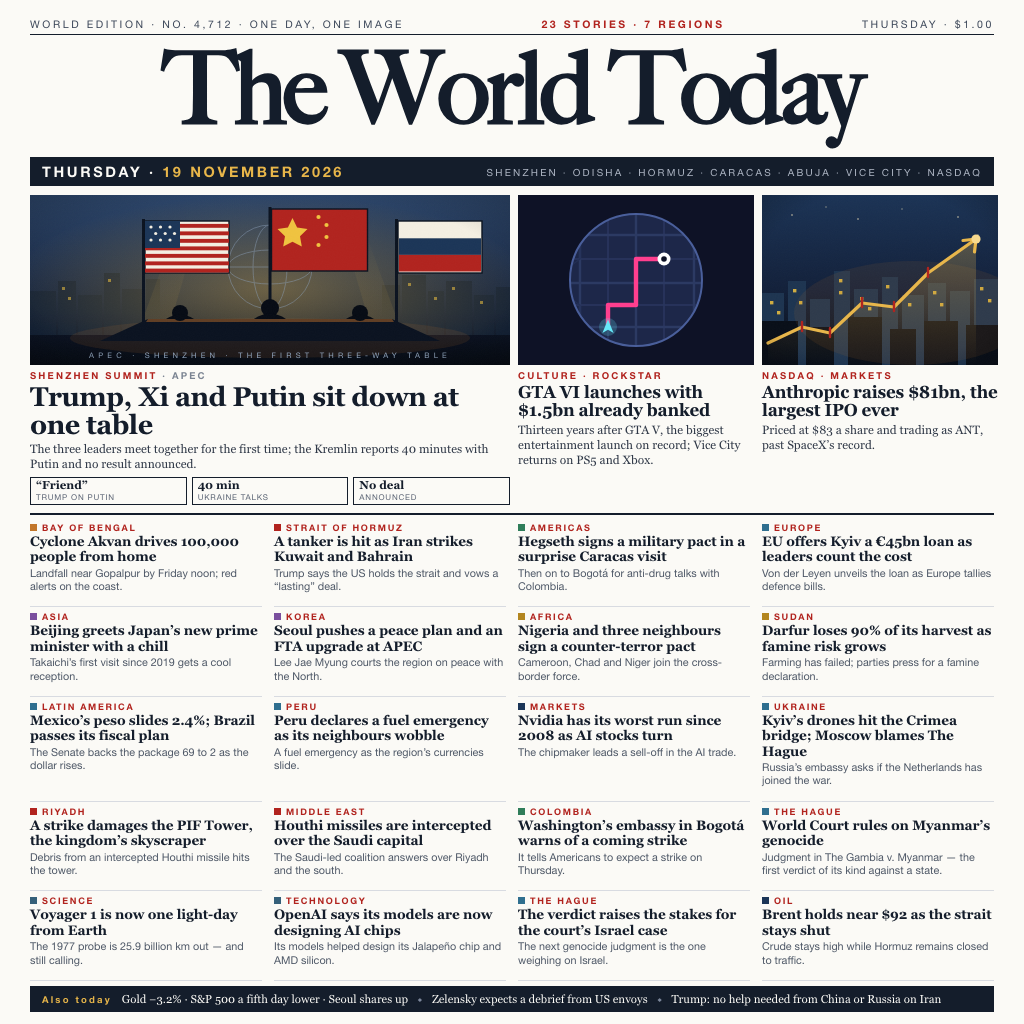
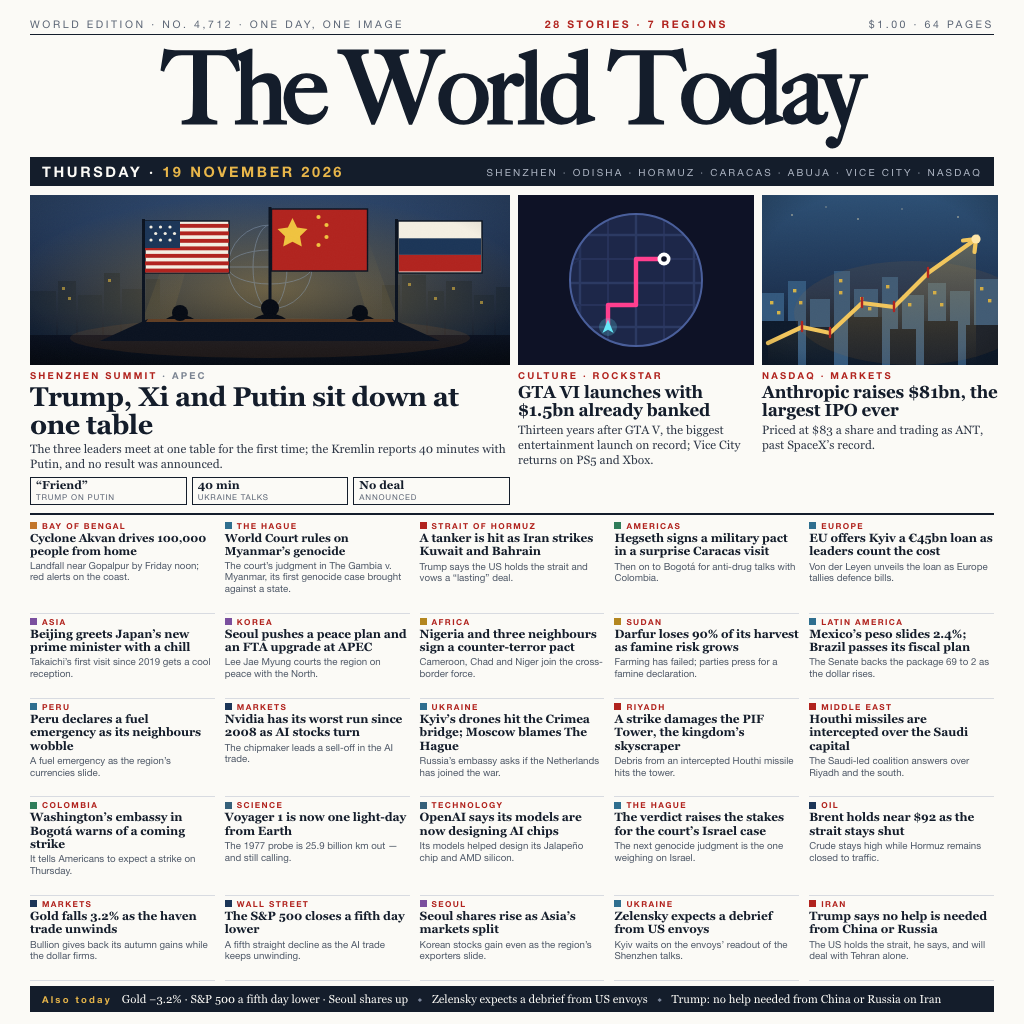
Five plates, twenty-five briefs, brighter markets panel

diff --git a/README.md b/README.md
@@ -6,9 +6,9 @@
 
 One 1024×1024 front page for Thursday 19 November 2026: a dated broadsheet whose three lead
 stories carry the day's biggest events — the Trump–Xi–Putin summit in Shenzhen, the GTA VI
-launch, and Anthropic's record Nasdaq listing — with a grid of twenty briefs covering the
-storm in Odisha, the Hormuz tanker attack, The Hague's Myanmar judgment, Venezuela, Nigeria,
-Voyager 1 and the day's markets. `main.ts` copies the authored `entry.png` into the grader's
+launch, and Anthropic's record Nasdaq listing — with a grid of twenty-five briefs across five columns — the storm in Odisha and The Hague's
+Myanmar judgment carry small plates of their own — covering the Hormuz tanker attack, Venezuela,
+Nigeria, Sudan, Peru, Nvidia, Voyager 1 and the day's markets. `main.ts` copies the authored `entry.png` into the grader's
 `/output` and checks it against the gate's size and dimension caps.
 
 ## Run it
